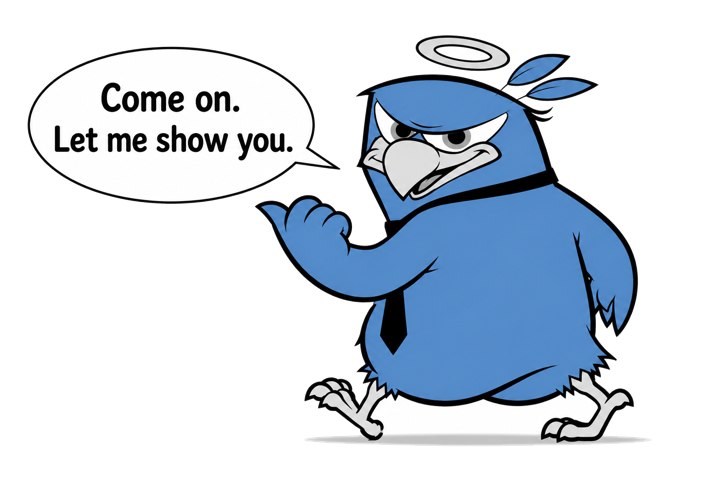
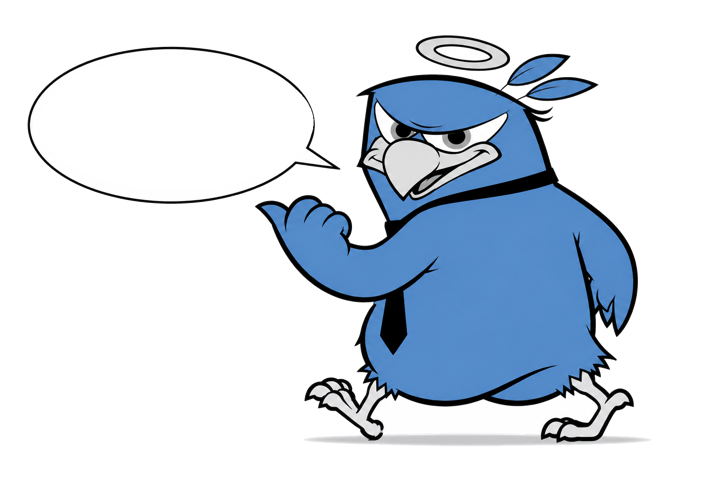
Personalised CTAs: coach's name in the pitch button and Angelo's bubble; Angelo only closes the page
- pitch-block gold button: '{name}, let me show you what a buyer actually wants' (neutral without a name)
- beckoning Angelo removed from the pitch block (David: button text only there); he closes the
  report under the final steps CTA with '{name}' in a live HTML speech bubble
- artwork rebuilt: bubble blanked (words are overlaid HTML so any name stays crisp), floor
  shadow converted to real translucent alpha so he sits clean on navy or white

Changed region(s): [[0.0611, 0.1562, 0.3972, 0.3438], [0.4278, 0.2188, 0.4583, 0.25]]

diff --git a/app.py b/app.py
@@ -243,7 +243,12 @@ PAGE = """<!doctype html><html lang="en"><head>
   @media(max-width:560px){{.sec-angelo{{width:76px}}}}
   .mi-img{{display:block;width:min(300px,72%);height:auto;margin:0 auto 18px;
     filter:drop-shadow(0 8px 20px rgba(0,0,0,.4))}}
-  .cta-angelo{{display:block;width:min(380px,88%);height:auto;margin:28px auto 0}}
+  .cta-angelo-wrap{{position:relative;display:block;width:min(400px,90%);margin:28px auto 0;
+    container-type:inline-size}}
+  .cta-angelo{{display:block;width:100%;height:auto}}
+  .bubble-txt{{position:absolute;left:8%;top:14%;width:33%;height:23%;display:flex;
+    align-items:center;justify-content:center;text-align:center;font-weight:700;color:#141414;
+    font-size:13px;font-size:3.7cqw;line-height:1.25}}
   .caveat{{margin-top:12px;padding:16px 18px;background:var(--soft);border-left:4px solid var(--accent);
     border-radius:0 8px 8px 0;font-size:15px;line-height:1.55}}
   .caveat b{{color:var(--accent-ink)}}
@@ -906,6 +911,17 @@ def render_result(res, first_name=""):
           else '<span class="badge">add API key for AI</span>')
     # Greet the coach by name when the form gave us one. Falls back cleanly to the old opener.
     _greet = f'{html.escape(first_name.strip())}, we' if first_name.strip() else 'We'
+    # Beckoning Angelo: the bubble in the artwork is blank; the words are HTML overlaid on it, so
+    # each placement speaks its own personalised line (clean fallback when we have no name).
+    _fn = html.escape(first_name.strip()) if first_name.strip() else ""
+    # Personalised gold button in the pitch block (David): Angelo-voice, coach's name in the label.
+    _mid_btn = (f'{_fn}, let me show you what a buyer actually wants &rarr;' if _fn
+                else 'Let me show you what a buyer actually wants &rarr;')
+    _bub_end = (f'Come on, {_fn}. Let me show you.' if _fn else 'Come on. Let me show you.')
+    def _angelo_speaks(text, href):
+        return (f'<a class="cta-angelo-wrap" href="{href}">'
+                f'<img class="cta-angelo" src="/angelo_cta.png" alt="Angelo: {text}">'
+                f'<span class="bubble-txt">{text}</span></a>')
     opener = (f'<div class="analysed"><p>{_greet} can tell in a few seconds what a cold buyer thinks when they arrive on your '
               f'page. We\'ve watched it go right and wrong on thousands of coaching sites.</p>'
               f'<p>We looked at '
@@ -1025,7 +1041,7 @@ def render_result(res, first_name=""):
         need it. If you want that edge, this is where it comes from.</p>
         <p class="curi">There's one thing your buyer wants that you've never put into words. It's the reason they pick
         one coach over another.</p>
-        <div class="btnwrap"><a class="cta-btn" href="{_offer_href}">Show me what my buyer actually wants &rarr;</a></div>
+        <div class="btnwrap"><a class="cta-btn" href="{_offer_href}">{_mid_btn}</a></div>
       </div>
       <div class="steps">
         <div class="steps-h">So how do you fix it?</div>
@@ -1046,8 +1062,7 @@ def render_result(res, first_name=""):
         </ol>
         <p class="steps-foot">When your marketing sounds like your buyer, more of the right people get in touch, and more of them buy. More clients, the right ones, and the growth to reach your next level.</p>
         <a class="cta-btn" href="{_offer_href}">{steps_btn}</a>
-        <a href="{_offer_href}"><img class="cta-angelo" src="/angelo_cta.png"
-          alt="Angelo: Come on. Let me show you."></a>
+        {_angelo_speaks(_bub_end, _offer_href)}
       </div>
     </div>"""
 
